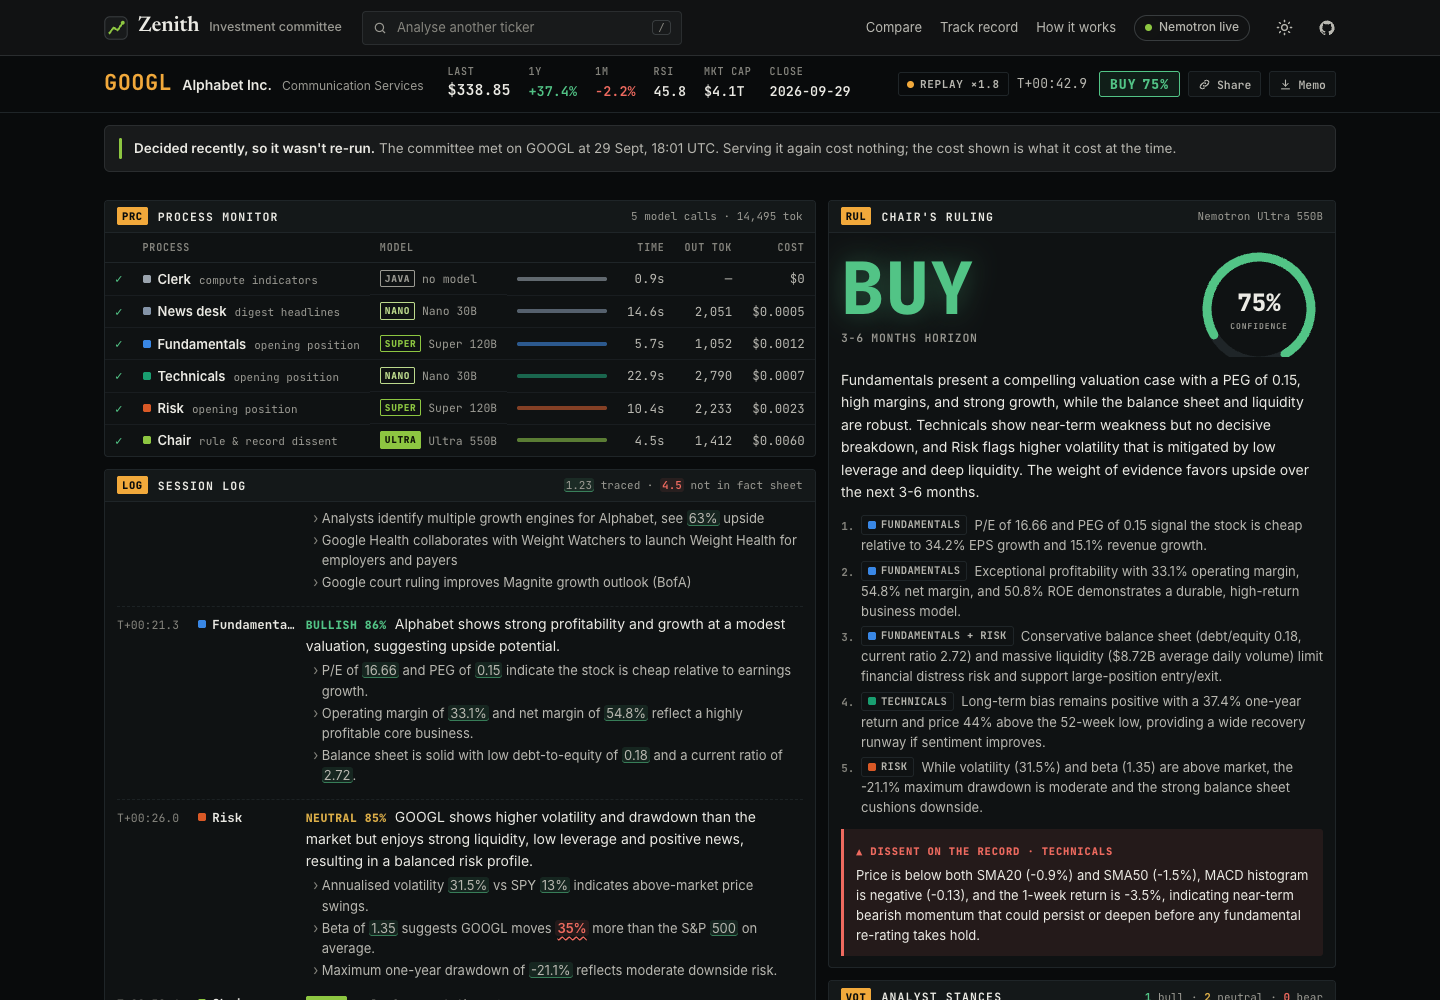
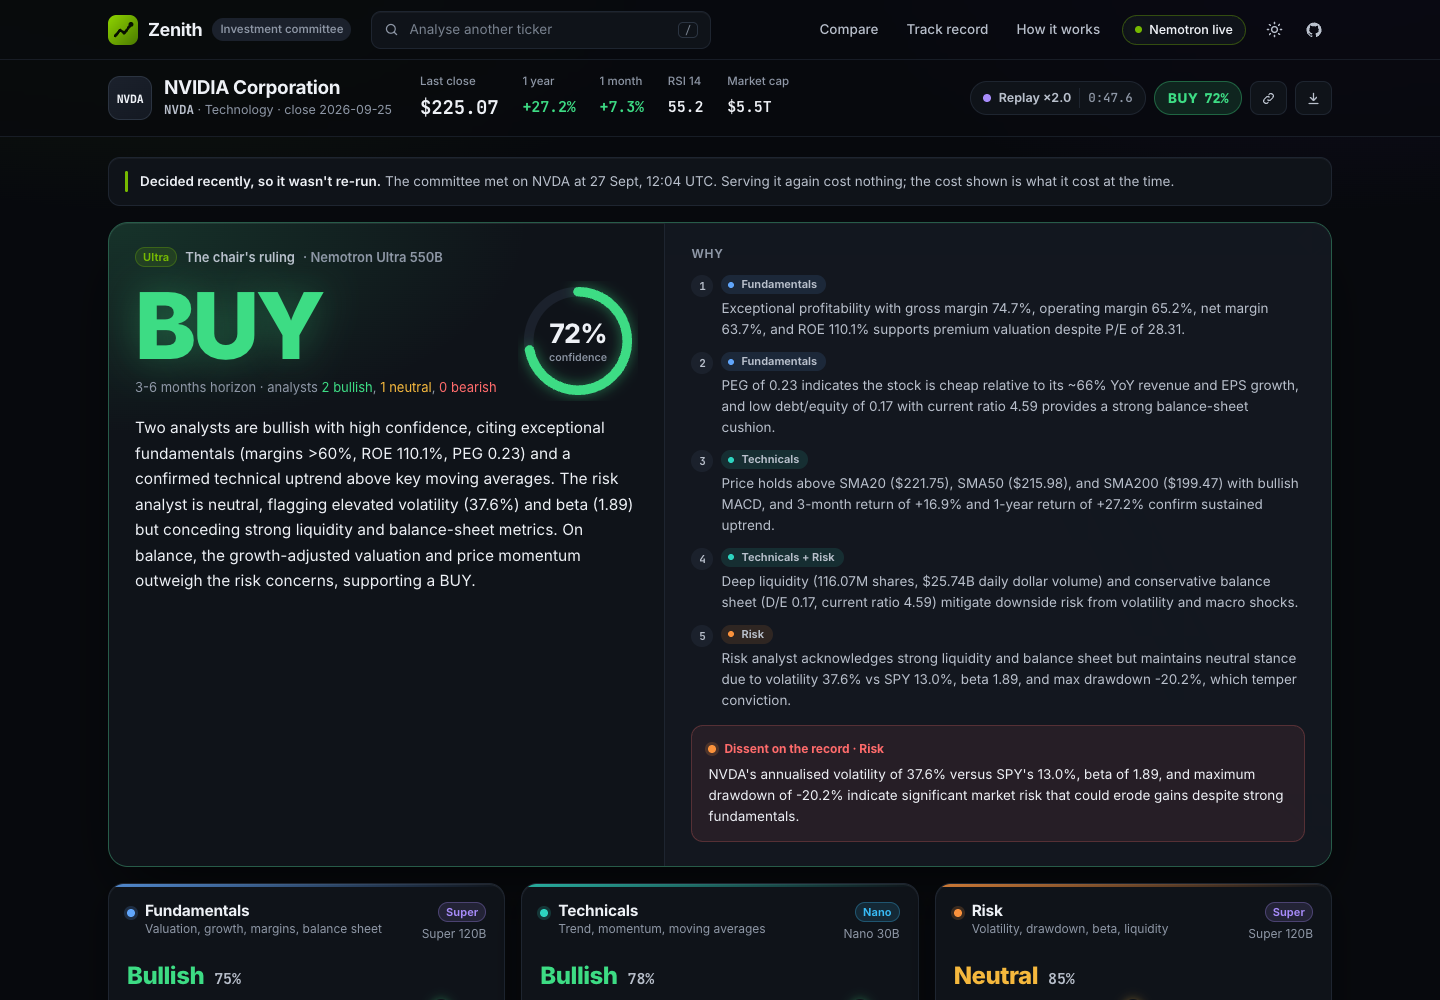
README: screenshots and session description for the new design

diff --git a/README.md b/README.md
@@ -17,14 +17,14 @@ Built for the **Nebius x NVIDIA Global AI Hackathon** (Best Apps and Agents trac
 
 **Live demo:** _coming soon_ · **Demo video:** _coming soon_
 
-![The session screen: every Nemotron call in a process monitor with its model, time, tokens and cost; the session log with traced figures highlighted; the Ultra chair's BUY at 75% confidence with its reasons and the dissent on the record](docs/screenshots/terminal.png)
+![The session screen: the Nemotron Ultra chair's BUY at 72% confidence with its reasons, each tagged with the analyst it came from, and the dissent on the record; below, the three analyst cards with traced figures highlighted](docs/screenshots/session.png)
 
 <details>
 <summary>The landing console, and head to head in the light theme</summary>
 
-![The landing page: start-up checks stating which Nemotron model holds which seat, a command prompt, and the stocks on file with their last recorded close and latest call](docs/screenshots/landing.png)
+![The landing page: one search box to convene the committee, a live diagram of which Nemotron model holds each seat, and a status strip checked from the real config](docs/screenshots/landing.png)
 
-![Two committees in parallel: JPM ruled HOLD, TSLA ruled SELL, each with its own process monitor and analyst stances](docs/screenshots/head-to-head.png)
+![Two committees in parallel: JPM ruled HOLD, TSLA ruled SELL, each with its ruling, dissent and analyst stances](docs/screenshots/head-to-head.png)
 
 </details>
 
@@ -60,7 +60,7 @@ flowchart LR
 6. **The chair (Ultra)** decides. It must name the analyst behind each part of its reasoning, and it must record the strongest dissent.
 7. **Memo.** The memo is assembled **in code** from the structured outputs, so its tables and disclaimer can't be hallucinated. You can download it as Markdown.
 
-The UI is a trading-terminal view of the session: a process monitor shows each Nemotron call running (model, time, tokens, cost), a session log prints what each agent said as it finishes, and the ruling lands with its confidence and dissent. Live runs stream over Server-Sent Events; a saved session is replayed from its recorded per-call timings, labelled as a replay.
+The session screen leads with the verdict. While the committee works, a progress banner shows each stage; three analyst cards fill in as each report lands (stance, confidence, headline, key points, rebuttal); and a pipeline chart draws every Nemotron call on one time axis, coloured by tier, with its time, tokens and cost. Then the chair's ruling lands with its confidence, the reasons (each tagged with the analyst it came from) and the dissent. Live runs stream over Server-Sent Events; a saved session is replayed from its recorded per-call timings, labelled as a replay.
 
 8. **Ask the committee.** After the ruling, visitors can question the session in a chat. The secretary (Super) answers only from that session's figures, reports and ruling; cited figures are checked like the analysts' evidence (an invented value is sent back for one retry), and any figure in the prose that isn't in the session is flagged on the page.
 
